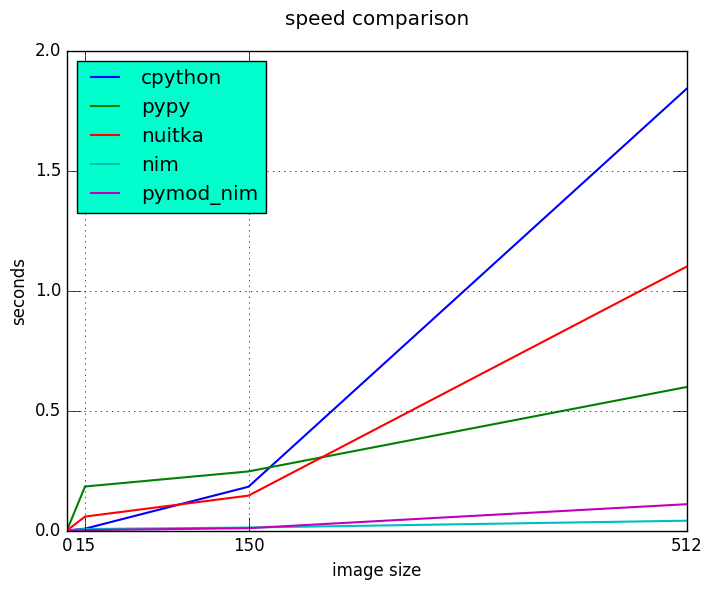
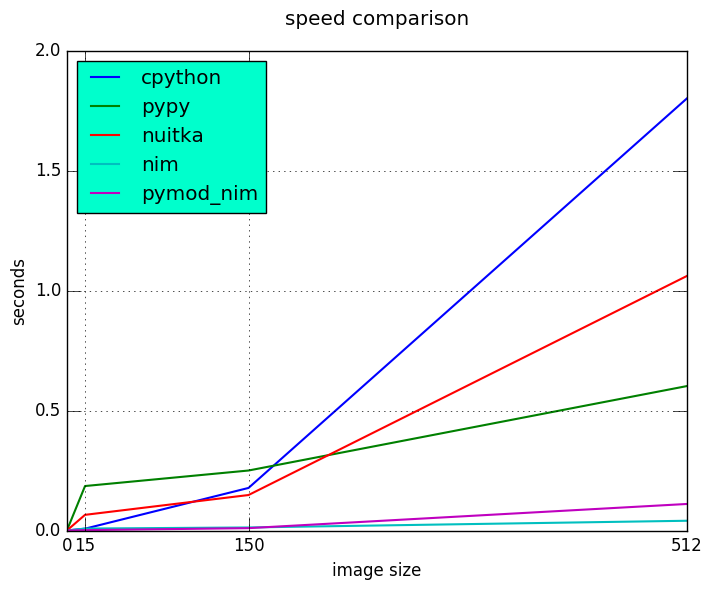
More content.

diff --git a/benchmark.py b/benchmark.py
@@ -56,9 +56,13 @@ fig = plt.figure()
 plt.gca().xaxis.set_major_locator(plt.NullLocator())
 ax = fig.add_subplot(111)
 ax.tick_params(axis=u'both', which=u'both',length=10)
-x = [0, 15, 150, 512, 1024, 2048, 4096]
+# x = [0, 15, 150, 512, 1024, 2048, 4096]
 # x = [0, 15, 150, 512, 1024]
+x = [0, 15, 150, 512]
 tests = [cpython, pypy, nuitka, nim, pymod_nim]
+images = ["pie_15_11.tga", "pie_150_113.tga",
+          "pie_512_384.tga", "pie_1024_768.tga",
+          "pie_2048_1536.tga", "pie_4096_3072.tga"]
 # tests = [nim, pymod_nim, pypy]
 # plt.annotate(
 #         'WARM-UP TIME',
@@ -66,11 +70,12 @@ tests = [cpython, pypy, nuitka, nim, pymod_nim]
 
 for t in tests:
     res = [0, ]
-    for image in ["pie_15_11.tga", "pie_150_113.tga",
-                  "pie_512_384.tga", "pie_1024_768.tga",
-                  "pie_2048_1536.tga", "pie_4096_3072.tga"]:
+    # for image in ["pie_15_11.tga", "pie_150_113.tga",
+    #               "pie_512_384.tga", "pie_1024_768.tga",
+    #               "pie_2048_1536.tga", "pie_4096_3072.tga"]:
     # for image in ["pie_15_11.tga", "pie_150_113.tga",
     #             "pie_512_384.tga", "pie_1024_768.tga"]:
+    for image in images:
         image_path = os.path.join(BASE_PATH, image)
         res.append(t(image_path))
         print "benchmarking: {} with size: {}".format(t.__name__, image)
@@ -87,4 +92,4 @@ ax.grid(True)
 
 
 # plt.show()
-plt.savefig("benchmark_top_3.png", bbox_inches='tight')
+plt.savefig("benchmark_small_images.png", bbox_inches='tight')
